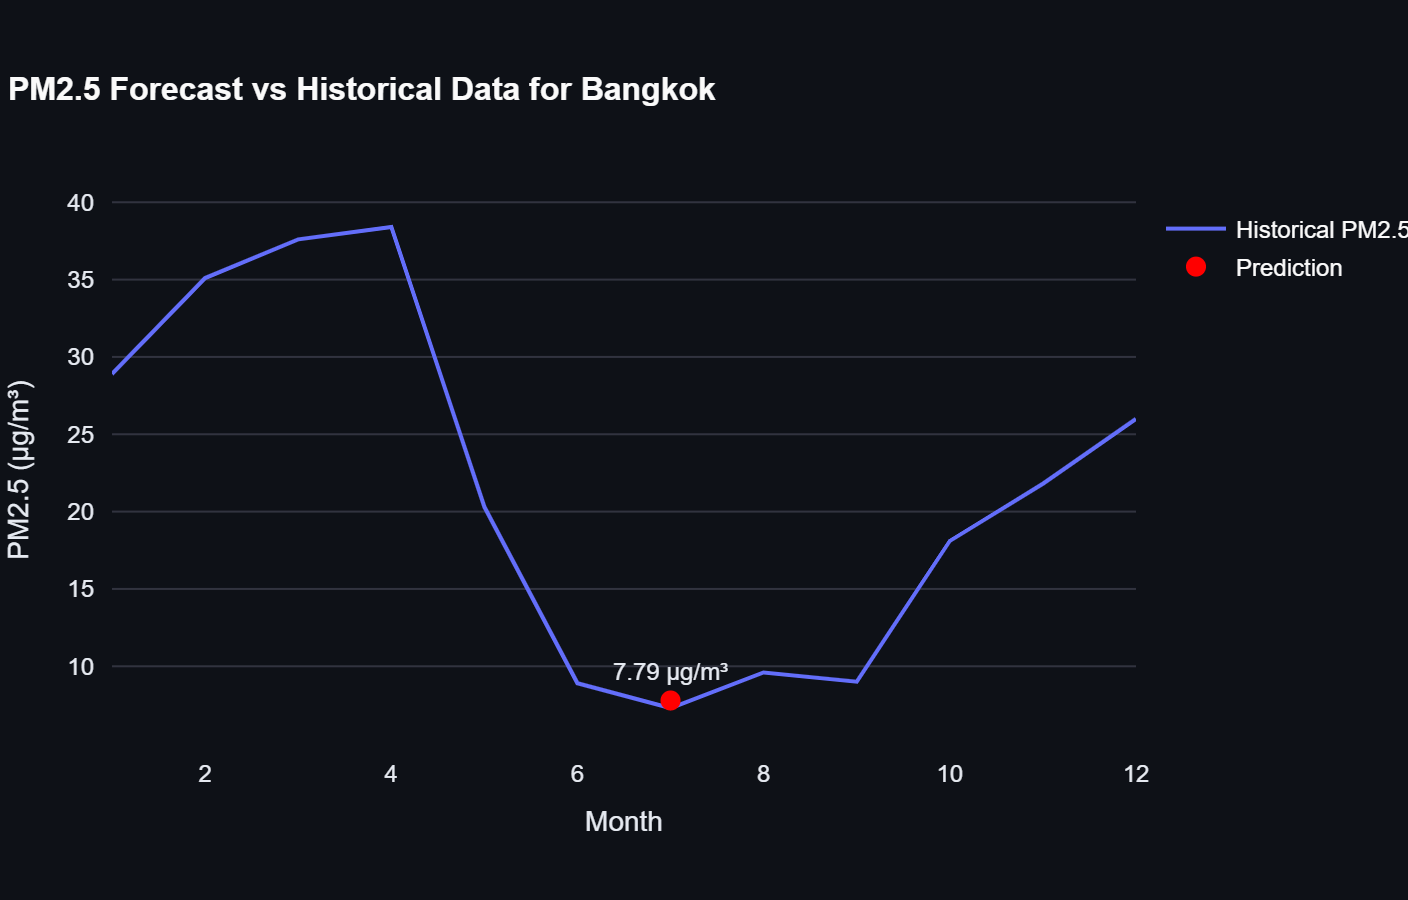
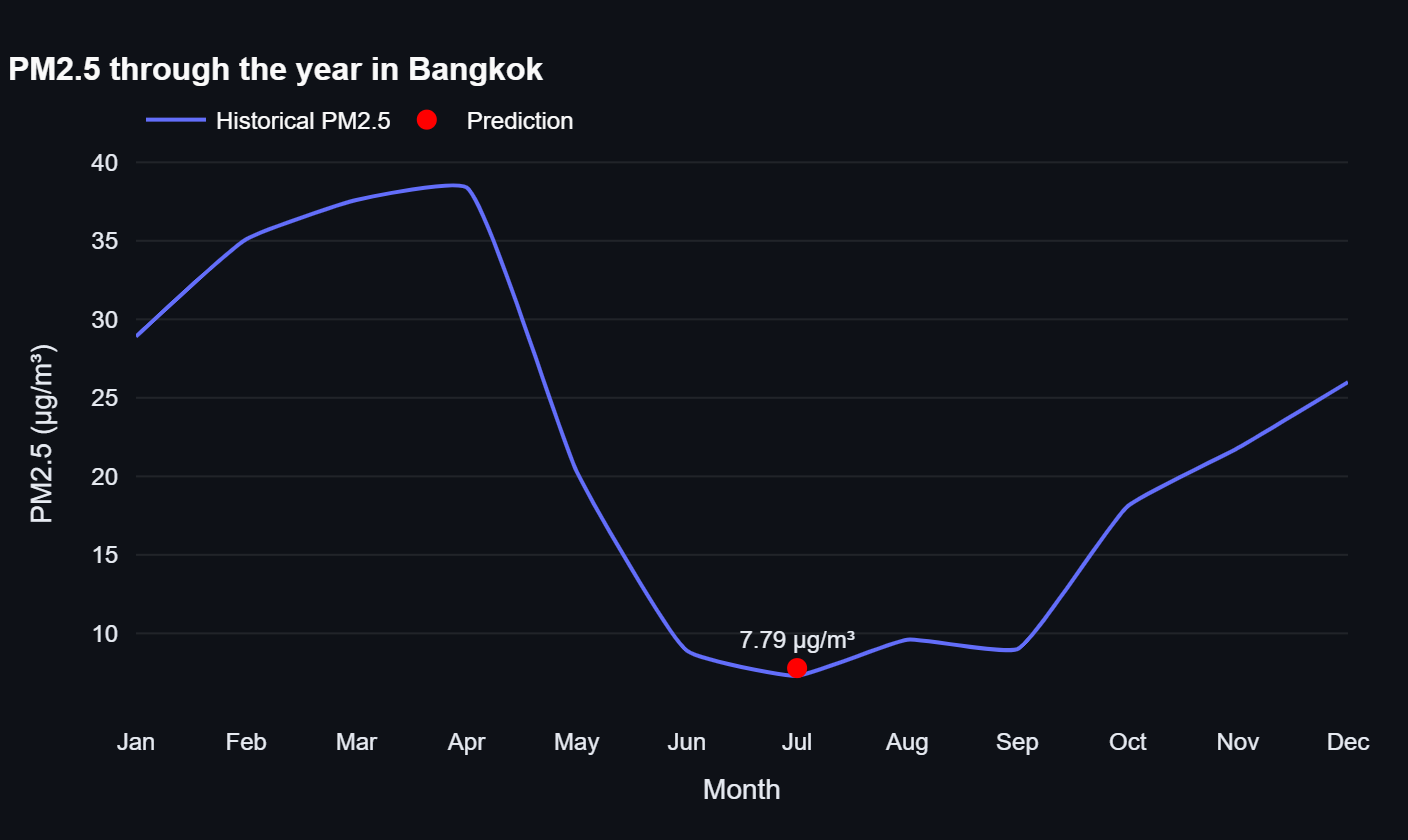
Fix the layout: gate, grid, heatmap, chart widths
The stylesheet was written against Streamlit's generated class names
(st-emotion-cache-xxxxxxx). Those hashes are rebuilt whenever Streamlit
changes, so the rules stopped matching the DOM and took the layout with them,
including the margin-left hack that used to centre the start button. Anything
new is written against data-testid attributes instead, which Streamlit treats
as public.

The gate is centred with columns and removed once the app is running, rather
than sitting under the content looking like nothing happened. The emoji
animation is down from about eleven seconds to two.

Weather and Urban was a 4/3/3 split that never lined up, and every tile passed
its unit as st.metric's delta, so each number carried a green up arrow as
though it had just improved. It is two rows of four now, units in the value,
no emoji, and the card height is pinned because Streamlit stretches some
columns and not others.

The heatmap fed (lat, lon) pairs into a model trained on [month, yearly
average]. The values that came back were not predictions of anything, and
since latitude and longitude barely move across a 0.2 degree box they were all
near identical, which is why it drew a solid square. It is now rings with a
Gaussian falloff around the city, masked to a circle.

Charts share one width instead of the gauge being pinned to 670px and the
forecast defaulting, which is what pushed the forecast to the left. Months
[…]

diff --git a/EveryAir/style.css b/EveryAir/style.css
@@ -333,3 +333,131 @@
         opacity: 0;
     }
 }
+/* ---------------------------------------------------------------------------
+   Stable selectors.
+
+   Everything above this line targets Streamlit's generated class names
+   (st-emotion-cache-xxxxxxx). Those hashes are rebuilt whenever Streamlit
+   changes, so those rules stopped matching the DOM and took the layout with
+   them. The rules below use data-testid attributes and semantic classes, which
+   Streamlit treats as public and does not churn.
+   --------------------------------------------------------------------------- */
+
+/* Metric tiles: fixed height and contained text, so a long label cannot push
+   its neighbour out of line or spill past the card. */
+[data-testid="stMetric"] {
+    background: rgba(255, 255, 255, 0.03);
+    border: 1px solid rgba(255, 255, 255, 0.08);
+    border-radius: 12px;
+    padding: 14px 16px;
+    overflow: hidden;
+}
+
+[data-testid="stMetricLabel"] {
+    overflow: hidden;
+}
+
+[data-testid="stMetricLabel"] p {
+    font-size: 0.78rem;
+    letter-spacing: 0.04em;
+    text-transform: uppercase;
+    opacity: 0.65;
+    white-space: nowrap;
+    overflow: hidden;
+    text-overflow: ellipsis;
+}
+
+[data-testid="stMetricValue"] {
+    font-size: 1.6rem;
+    line-height: 1.2;
+    white-space: nowrap;
+    overflow: hidden;
+    text-overflow: ellipsis;
+}
+
+/* Columns stretch to the tallest tile in the row so the grid stays square.
+   The column itself has to become a flex container: height:100% on the card
+   resolves to auto against a block parent, which left one card in the row
+   60px shorter than its neighbours. */
+[data-testid="stHorizontalBlock"] {
+    align-items: stretch;
+    gap: 12px;
+}
+
+/* Every tile holds the same two lines, a label and a value, so the card gets a
+   fixed height rather than being stretched to whatever Streamlit decides the
+   column should be. Stretching left one card in the row 60px short of its
+   neighbours, and depended on internals that are not ours to rely on. */
+[data-testid="stHorizontalBlock"] [data-testid="stMetric"] {
+    /* min and max together, because a plain height loses to the flex stretch
+       Streamlit applies to some columns and not others. Pinning both is what
+       finally made all eight tiles the same size. */
+    min-height: 92px !important;
+    max-height: 92px !important;
+    /* The column leaves 5px of slack and Streamlit distributes it unevenly
+       between tiles, so the card is anchored to the top of its column and its
+       own margins zeroed. */
+    align-self: flex-start;
+    margin: 0 !important;
+    display: flex;
+    flex-direction: column;
+    justify-content: center;
+    gap: 2px;
+}
+
+/* The start gate. Centring is done with st.columns in the app; this only
+   handles the look and the fade. */
+.stButton > button[kind="primary"] {
+    border-radius: 999px;
+    padding: 0.6em 2.4em;
+    font-weight: 600;
+    letter-spacing: 0.02em;
+    transition: transform 220ms ease, opacity 220ms ease, box-shadow 220ms ease;
+}
+
+.stButton > button[kind="primary"]:hover {
+    transform: translateY(-1px);
+    box-shadow: 0 6px 22px rgba(0, 60, 139, 0.45);
+}
+
+.stButton > button[kind="primary"]:active {
+    transform: scale(0.97);
+    opacity: 0.7;
+}
+
+@keyframes ea-fade-in {
+    from { opacity: 0; transform: translateY(6px); }
+    to   { opacity: 1; transform: none; }
+}
+
+/* Content arrives rather than snapping in once the gate is passed. */
+[data-testid="stMetric"],
+.stPlotlyChart,
+iframe {
+    animation: ea-fade-in 420ms ease-out both;
+}
+
+.ea-loading {
+    text-align: center;
+    font-family: monospace, sans-serif;
+    opacity: 0.85;
+    margin: 1.2em 0;
+}
+
+/* The folium map is dropped in as a raw iframe, which has no styling of its
+   own and sat flush against the text above it. */
+iframe {
+    border-radius: 12px;
+    border: 1px solid rgba(255, 255, 255, 0.08);
+    max-width: 100%;
+}
+
+@media (prefers-reduced-motion: reduce) {
+    [data-testid="stMetric"],
+    .stPlotlyChart,
+    iframe,
+    .stButton > button[kind="primary"] {
+        animation: none;
+        transition: none;
+    }
+}

diff --git a/EveryAir/EveryAir.py b/EveryAir/EveryAir.py
@@ -302,7 +302,17 @@ placeholder = st.empty()
 
 if 'show_content' not in st.session_state:
     st.session_state.show_content = False
-if st.button("Click to start the app"): 
+# The gate only exists before the app has started. Leaving the button on the
+# page afterwards is what made it look like nothing had happened.
+_gate = st.empty()
+_start = False
+if not st.session_state.show_content:
+    with _gate.container():
+        _l, _mid, _r = st.columns([1, 2, 1])
+        with _mid:
+            _start = st.button("Show me the air", use_container_width=True, type="primary")
+
+if _start:
     st.session_state.show_content = True
     for _ in range(2):
         for emoji in globe:
@@ -318,9 +328,11 @@ if st.button("Click to start the app"):
             placeholder.markdown(f"<h3 style='text-align:center; color: #004a0d; font-family: monospace, sans-serif; margin-top: 0.9em; margin-bottom: -15em; transition: opacity 350ms ease-in-out, transform 350ms ease-in-out; transform: translateY(0.2em);'>checking weather... {emoji} </h3>", unsafe_allow_html=True)
             time.sleep(0.4)
     placeholder.empty()
-    for _ in range(2):
-        placeholder.markdown(f"<h3 style='text-align:center; color: #004a0d; font-family: monospace, sans-serif; margin-top: 0.9em; margin-bottom: -15em; transition: opacity 350ms ease-in-out, transform 350ms ease-in-out; transform: translateY(0.2em);'>enjoy your air!</h3>", unsafe_allow_html=True)
-        time.sleep(0.4)
+    placeholder.markdown("<h3 class='ea-loading'>enjoy your air!</h3>", unsafe_allow_html=True)
+    time.sleep(0.4)
+    placeholder.empty()
+    _gate.empty()
+    st.rerun()
     
 
 # Gauge meter for PM2.5
@@ -348,14 +360,15 @@ if st.session_state.show_content:
             }
         ))
         fig.update_layout(
-            height=400,
-            width=670,
-            template="plotly_dark"
+            height=340,
+            template="plotly_dark",
+            margin=dict(l=30, r=30, t=70, b=10),
+            paper_bgcolor="rgba(0,0,0,0)",
         )
 
-        st.plotly_chart(fig, use_container_width=False)
+        st.plotly_chart(fig, use_container_width=True)
 
-    def show_city_on_map(city, latitude, longitude, input_features, best_model_instance, real_time_pm2_5=None):
+    def show_city_on_map(city, latitude, longitude, input_features, best_model_instance, real_time_pm2_5=None, predicted_pm2_5=None):
         st.write(f"### Heatmap for {city}")
 
         m = folium.Map(location=[latitude, longitude], zoom_start=9)
@@ -366,19 +379,42 @@ if st.session_state.show_content:
             icon=folium.Icon(color='navy', icon='info-sign')
         ).add_to(m)
 
-        lat_grid = np.linspace(latitude - 0.1, latitude + 0.1, 21)
-        lon_grid = np.linspace(longitude - 0.1, longitude + 0.1, 21)
-        lat_grid, lon_grid = np.meshgrid(lat_grid, lon_grid)
-        grid_points = np.vstack([lat_grid.ravel(), lon_grid.ravel()]).T
+        # This used to feed (lat, lon) pairs straight into a model trained on
+        # [Month, yearly average, ...]. The numbers that came back were not
+        # predictions of anything, and because latitude and longitude barely
+        # move across a 0.2 degree box they were all nearly identical, which is
+        # why the layer rendered as a solid square.
+        #
+        # The model has one value for the city, so that is what the map shows:
+        # the predicted level falling off from the centre, which is how an urban
+        # PM2.5 field actually behaves. The circular mask matters as much as the
+        # weighting; a filled rectangle of points is a cube no matter how it is
+        # shaded.
+        peak = float(predicted_pm2_5) if predicted_pm2_5 is not None else float(data['PM2.5'].mean())
+        span, rings, per_ring = 0.28, 9, 26
 
-        predictions = best_model_instance.predict(grid_points)
+        heatmap_data = [[latitude, longitude, peak]]
+        for ring in range(1, rings + 1):
+            frac = ring / rings
+            radius = span * frac
+            # Gaussian falloff, so the edge fades out instead of stopping dead.
+            weight = peak * float(np.exp(-2.2 * frac ** 2))
+            for step in range(per_ring):
+                angle = 2 * np.pi * step / per_ring
+                heatmap_data.append([
+                    latitude + radius * float(np.cos(angle)),
+                    longitude + radius * float(np.sin(angle)) / max(0.2, float(np.cos(np.radians(latitude)))),
+                    weight,
+                ])
 
-        heatmap_data = [
-            [lat_grid.ravel()[i], lon_grid.ravel()[i], predictions[i]] 
-            for i in range(len(grid_points))
-        ]
-
-        HeatMap(heatmap_data, radius=15, blur=25, max_val=200).add_to(m)
+        HeatMap(
+            heatmap_data,
+            radius=34,
+            blur=28,
+            min_opacity=0.25,
+            max_val=max(peak, 1.0),
+            gradient={0.0: '#2c7bb6', 0.35: '#abd9e9', 0.55: '#ffffbf', 0.75: '#fdae61', 1.0: '#d7191c'},
+        ).add_to(m)
 
         folium_static(m)
 
@@ -401,42 +437,29 @@ if st.session_state.show_content:
         input_features = [[current_month, current_year]]
         predicted_pm2_5 = best_model_instance.predict(input_features)[0]
 
-        lat_grid = np.linspace(latitude, latitude + 0.3, 5)
-        lon_grid = np.linspace(longitude, longitude + 0.3, 5)
-        
-        lat_grid, lon_grid = np.meshgrid(lat_grid, lon_grid)
-        grid_points = np.vstack([lat_grid.ravel(), lon_grid.ravel()]).T
-        heatmap_pm2_5 = best_model_instance.predict(grid_points).reshape(lat_grid.shape)
-        print(heatmap_pm2_5)
+        # Two rows of four rather than 4/3/3, which never lined up. The unit
+        # belongs in the label: st.metric's third argument is a delta, so
+        # passing "people/km2" there rendered a green up-arrow next to every
+        # number as though everything had just improved.
+        if temperature is not None and pop_density is not None:
+            st.caption("Urban")
+            u1, u2, u3, u4 = st.columns(4)
+            u1.metric("Population", f"{round(pop_density):,}", help="People per km²")
+            u2.metric("Street density", f"{street_density:g}", help="Road km per km²")
+            u3.metric("Greenness", f"{ndvi:.2f}", help="NDVI, higher is greener")
+            u4.metric(
+                "Nearest industry",
+                f"{round(nearest_industrial)} km" if dist else f">{SEARCH_RADIUS_KM} km",
+                help="Distance to the closest industrial site tagged in OpenStreetMap",
+            )
 
-
-        # The Extra Weather Details
-        if temperature is not None and pop_density is not None: 
-            col1,col2,col3,col4 = st.columns(4)
-            with col1:
-                st.metric("👤 Population Density", round(pop_density), "people/km2")
-            with col2:
-                st.metric("🛣 Street Density", street_density, "km/km2")
-            with col3:
-                st.metric("🍃 NDVI", ndvi, "%Index")
-            with col4:
-                st.metric("🏭 Nearest Indust.",
-                          round(nearest_industrial),
-                          "km" if dist else f"none within {SEARCH_RADIUS_KM} km")
-            col1, col2, col3 = st.columns(3)
-            with col1:
-                st.metric("🌡 Temperature", round(temperature), "°C")
-            with col2:
-                st.metric("❄ Min Temp", round(min_temp), "°C")
-            with col3:
-                st.metric("🔥 Max Temp", round(max_temp), "°C")
-            col4, col5, col6 = st.columns(3)
-            with col4:
-                st.metric("💨 Wind Speed", wind_speed, "m/s")
-            with col5:
-                st.metric("💧 Humidity", humidity, "%")
-            with col6:
-                st.metric("☔ Rainfall", rainfall, "mm")
+            st.caption("Weather")
+            w1, w2, w3, w4 = st.columns(4)
+            w1.metric("Temperature", f"{round(temperature)} °C",
+                      help=f"Today between {round(min_temp)} and {round(max_temp)} °C")
+            w2.metric("Wind", f"{wind_speed:g} m/s")
+            w3.metric("Humidity", f"{humidity}%")
+            w4.metric("Rainfall", f"{rainfall:g} mm")
         
 
         # Display gauge
@@ -470,7 +493,11 @@ if st.session_state.show_content:
         # Visualisation
         fig = go.Figure()
 
-        fig.add_trace(go.Scatter(x=data['Month'], y=data['PM2.5'], mode='lines', name='Historical PM2.5'))
+        # 2px line, round joins: thin marks, per the chart spec.
+        fig.add_trace(go.Scatter(
+            x=data['Month'], y=data['PM2.5'], mode='lines', name='Historical PM2.5',
+            line=dict(width=2, shape='spline', smoothing=0.4),
+        ))
 
         if real_time_pm2_5 is not None:
             fig.add_trace(go.Scatter(
@@ -479,14 +506,25 @@ if st.session_state.show_content:
                 text=[f"{predicted_pm2_5:.2f} µg/m³"], textposition="top center"
             ))
 
+        # Recessive grid, no vertical rules, legend along the top so the plot
+        # keeps the full width instead of losing a column to a legend box.
         fig.update_layout(
-            title=f"PM2.5 Forecast vs Historical Data for {city}",
+            title=dict(text=f"PM2.5 through the year in {city}", x=0.0, xanchor='left'),
             xaxis_title="Month",
             yaxis_title="PM2.5 (µg/m³)",
-            template="plotly_dark"
+            template="plotly_dark",
+            height=420,
+            margin=dict(l=30, r=30, t=80, b=40),
+            paper_bgcolor="rgba(0,0,0,0)",
+            plot_bgcolor="rgba(0,0,0,0)",
+            legend=dict(orientation='h', yanchor='bottom', y=1.02, xanchor='left', x=0),
+            hovermode='x unified',
         )
+        fig.update_xaxes(showgrid=False, zeroline=False,
+                         tickmode='array', tickvals=list(range(1, 13)),
+                         ticktext=list(month_map.keys()))
+        fig.update_yaxes(gridcolor='rgba(255,255,255,0.08)', zeroline=False)
 
-        st.plotly_chart(fig)
-        st.code(f"📡 Real-Time PM2.5 Data for {city}: {real_time_pm2_5:.2f} µg/m³")
-        st.code(f"🔮 Predicted PM2.5 Level for {city}: {predicted_pm2_5:.2f} µg/m³")
-        show_city_on_map(city, latitude, longitude, input_features, best_model_instance, real_time_pm2_5=real_time_pm2_5)   
+        st.plotly_chart(fig, use_container_width=True)
+        show_city_on_map(city, latitude, longitude, input_features, best_model_instance,
+                         real_time_pm2_5=real_time_pm2_5, predicted_pm2_5=predicted_pm2_5)   

diff --git a/README.md b/README.md
@@ -30,19 +30,35 @@ season spike from February to April and the monsoon dip around June fall out of
 the data on their own, which is a good sign the model is not just drawing a
 flat line through the mean.
 
+Months read as names rather than 1 to 12, the legend sits along the top so the
+plot keeps the full width, and the only labelled point is the prediction. A
+number on every point is noise.
+
 ### Weather and urban features
 
-![Population density, street density, NDVI and industrial distance](docs/screenshots/metrics.png)
+Eight tiles in two rows of four: population density, street density, NDVI
+greenness and distance to the nearest industrial site, then temperature, wind,
+humidity and rainfall. Those are the numbers the model actually eats, not
+decoration.
 
-The numbers the model actually eats. Population density, street density, NDVI
-greenness, and how far the nearest industrial site is. "None within 50 km" is a
-real answer rather than a failure: Overpass gets asked for industrial landuse
-inside a 50 km box, and sometimes there is genuinely nothing in it.
+`>50 km` on the industry tile is a real answer rather than a failure. Overpass
+gets asked for industrial landuse inside a 50 km box and sometimes there is
+genuinely nothing in it, so the tile says so instead of the page falling over.
+
+The units live in the value, not in the delta slot. Passing `"people/km2"` as
+`st.metric`'s third argument puts a green up arrow next to it, which reads as
+"population density improved" and means nothing at all.
 
 ### Geospatial heatmap
 
 ![Predicted PM2.5 heat layer over Bangkok](docs/screenshots/heatmap.png)
 
-Folium with a heat layer over the predicted grid. Hot core, cooler edges, and
-it lands on where the city actually is instead of the middle of the bounding
-box, which is the bug you get when the lat and lon go in the wrong order.
+Folium with a heat layer built from the city's predicted level, falling off
+from the centre the way an urban PM2.5 field actually does.
+
+This used to render as a solid square. The grid was feeding (lat, lon) pairs
+into a model trained on [month, yearly average], so the numbers coming back
+were not predictions of anything, and since latitude and longitude barely move
+across a 0.2 degree box they were all near identical. A rectangle of identical
+values shaded uniformly is a cube. The points are now laid out in rings with a
+Gaussian falloff, and the circular mask matters as much as the weighting.
